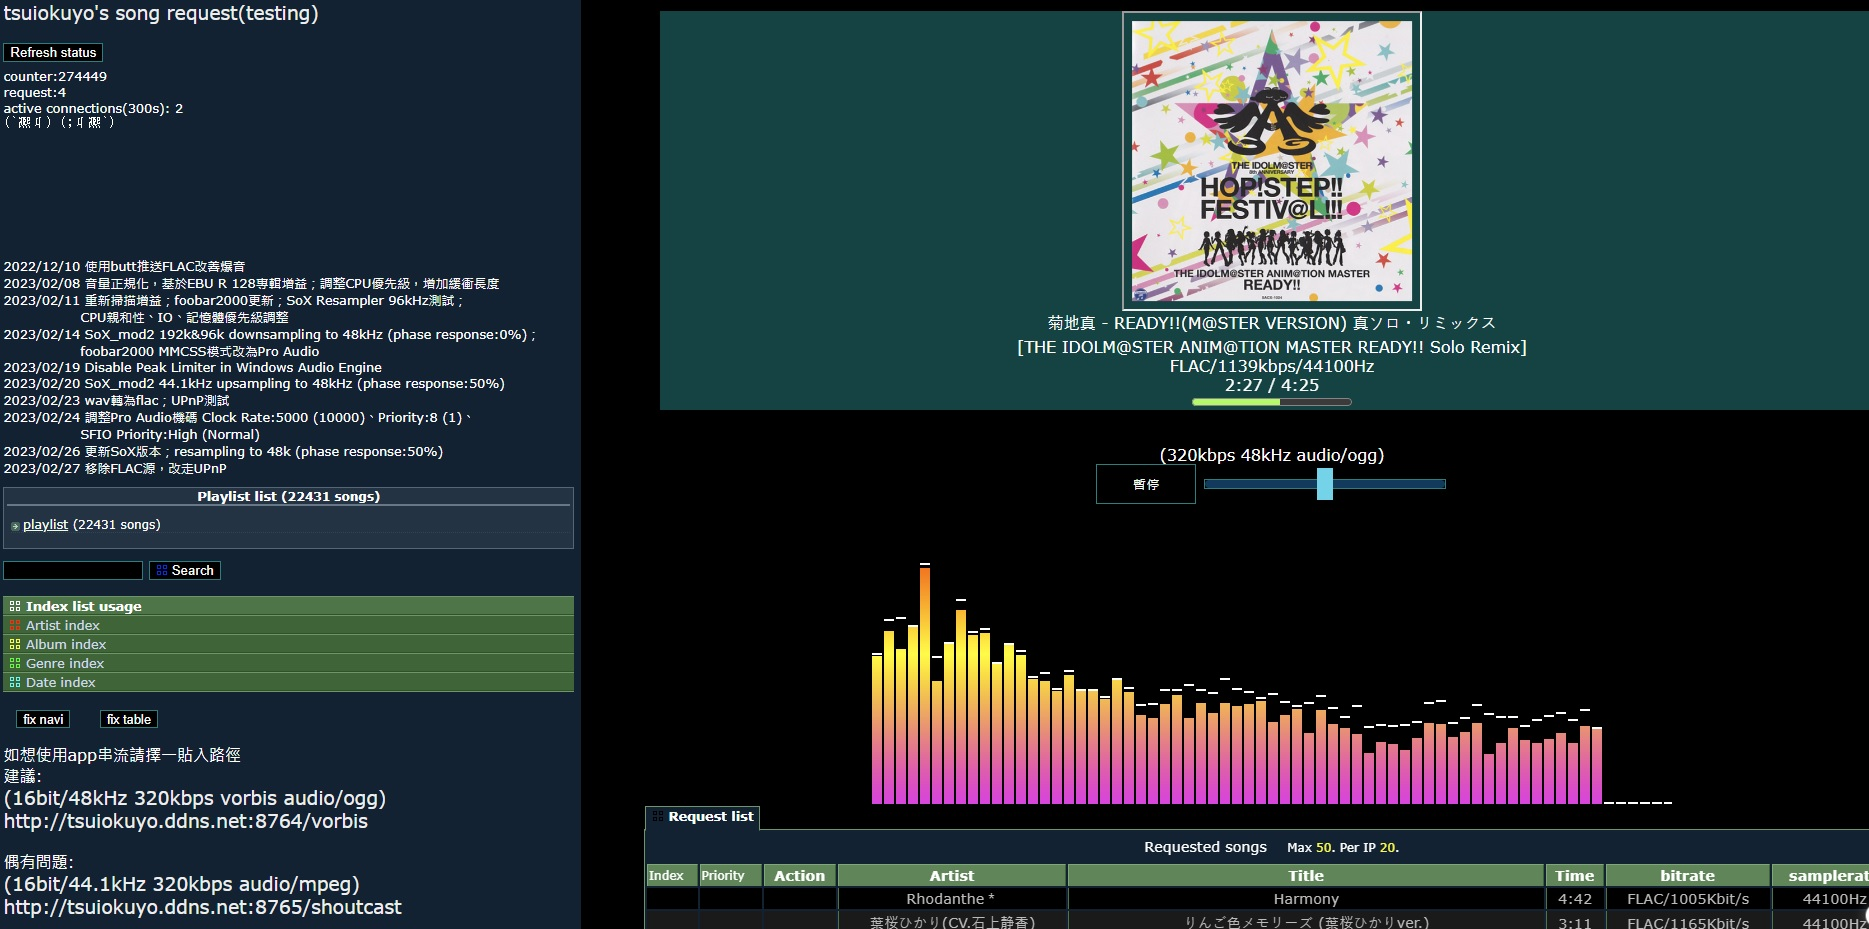
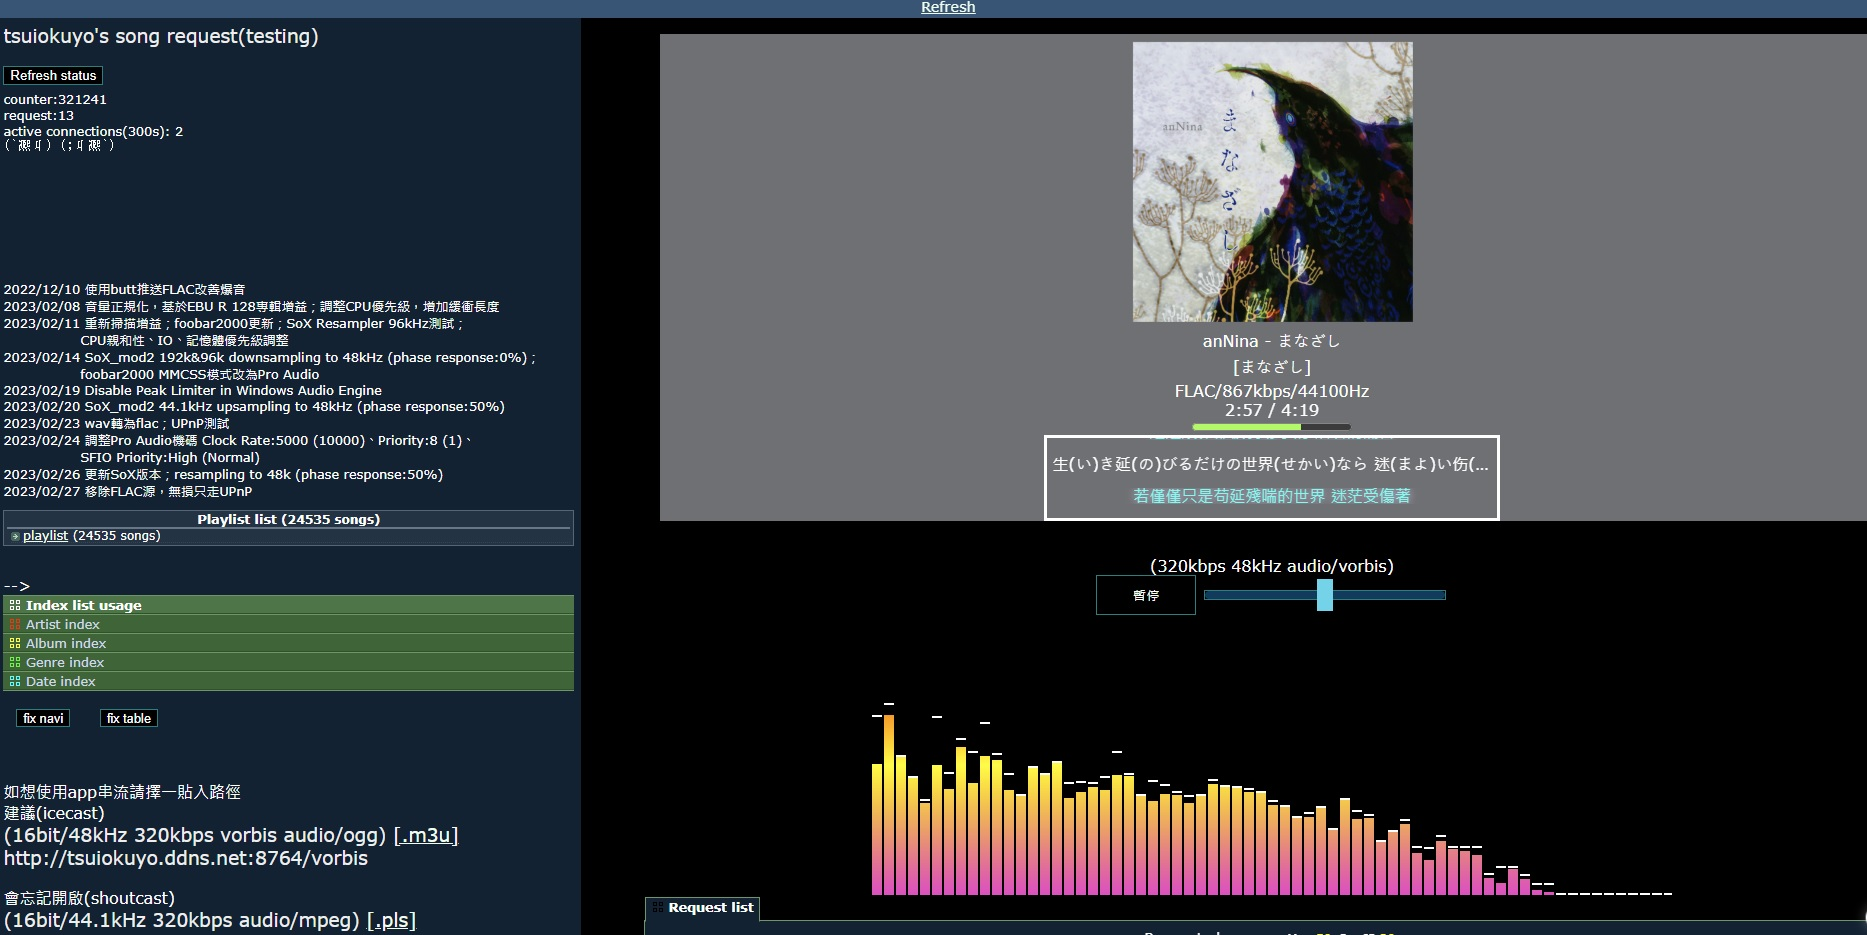
update

diff --git a/content/posts/使用Foobar2000建個基於icecast的網路電台/index.md b/content/posts/使用Foobar2000建個基於icecast的網路電台/index.md
@@ -6,7 +6,7 @@ featuredImage: "/assets/foobar2000.jpg"
 featuredImagePreview: "/assets/foobar2000.jpg"
 tags: [foobar2000]
 categories: [foobar2000]
-lastmod: 2023-03-11
+lastmod: 2023-03-12
 weight: 2
 ---
 
@@ -29,6 +29,8 @@ http://tsuiokuyo.ddns.net:8764/status.xsl
 
 http://tsuiokuyo.ddns.net:8765
 (shoutcast)
+
+2023/03/12 花了兩天研究，基本上搞定串流動態歌詞了，靜態歌詞及非正常格式無處理，只依靠foobar2000與原生js這已經是我的極限了...，聊天室大概也只能靠iframe引入了。
 
 2023/03/10 取封面平均色來改變背景色，本來是想實現頻譜會依封面而變色，不過有些平均不是很明顯，因此作罷，下一步估計是研究弄出動態歌詞，因為看到AVG遊戲大約的專輯量讓我感到絕望...，只能選擇逃避了。
 
